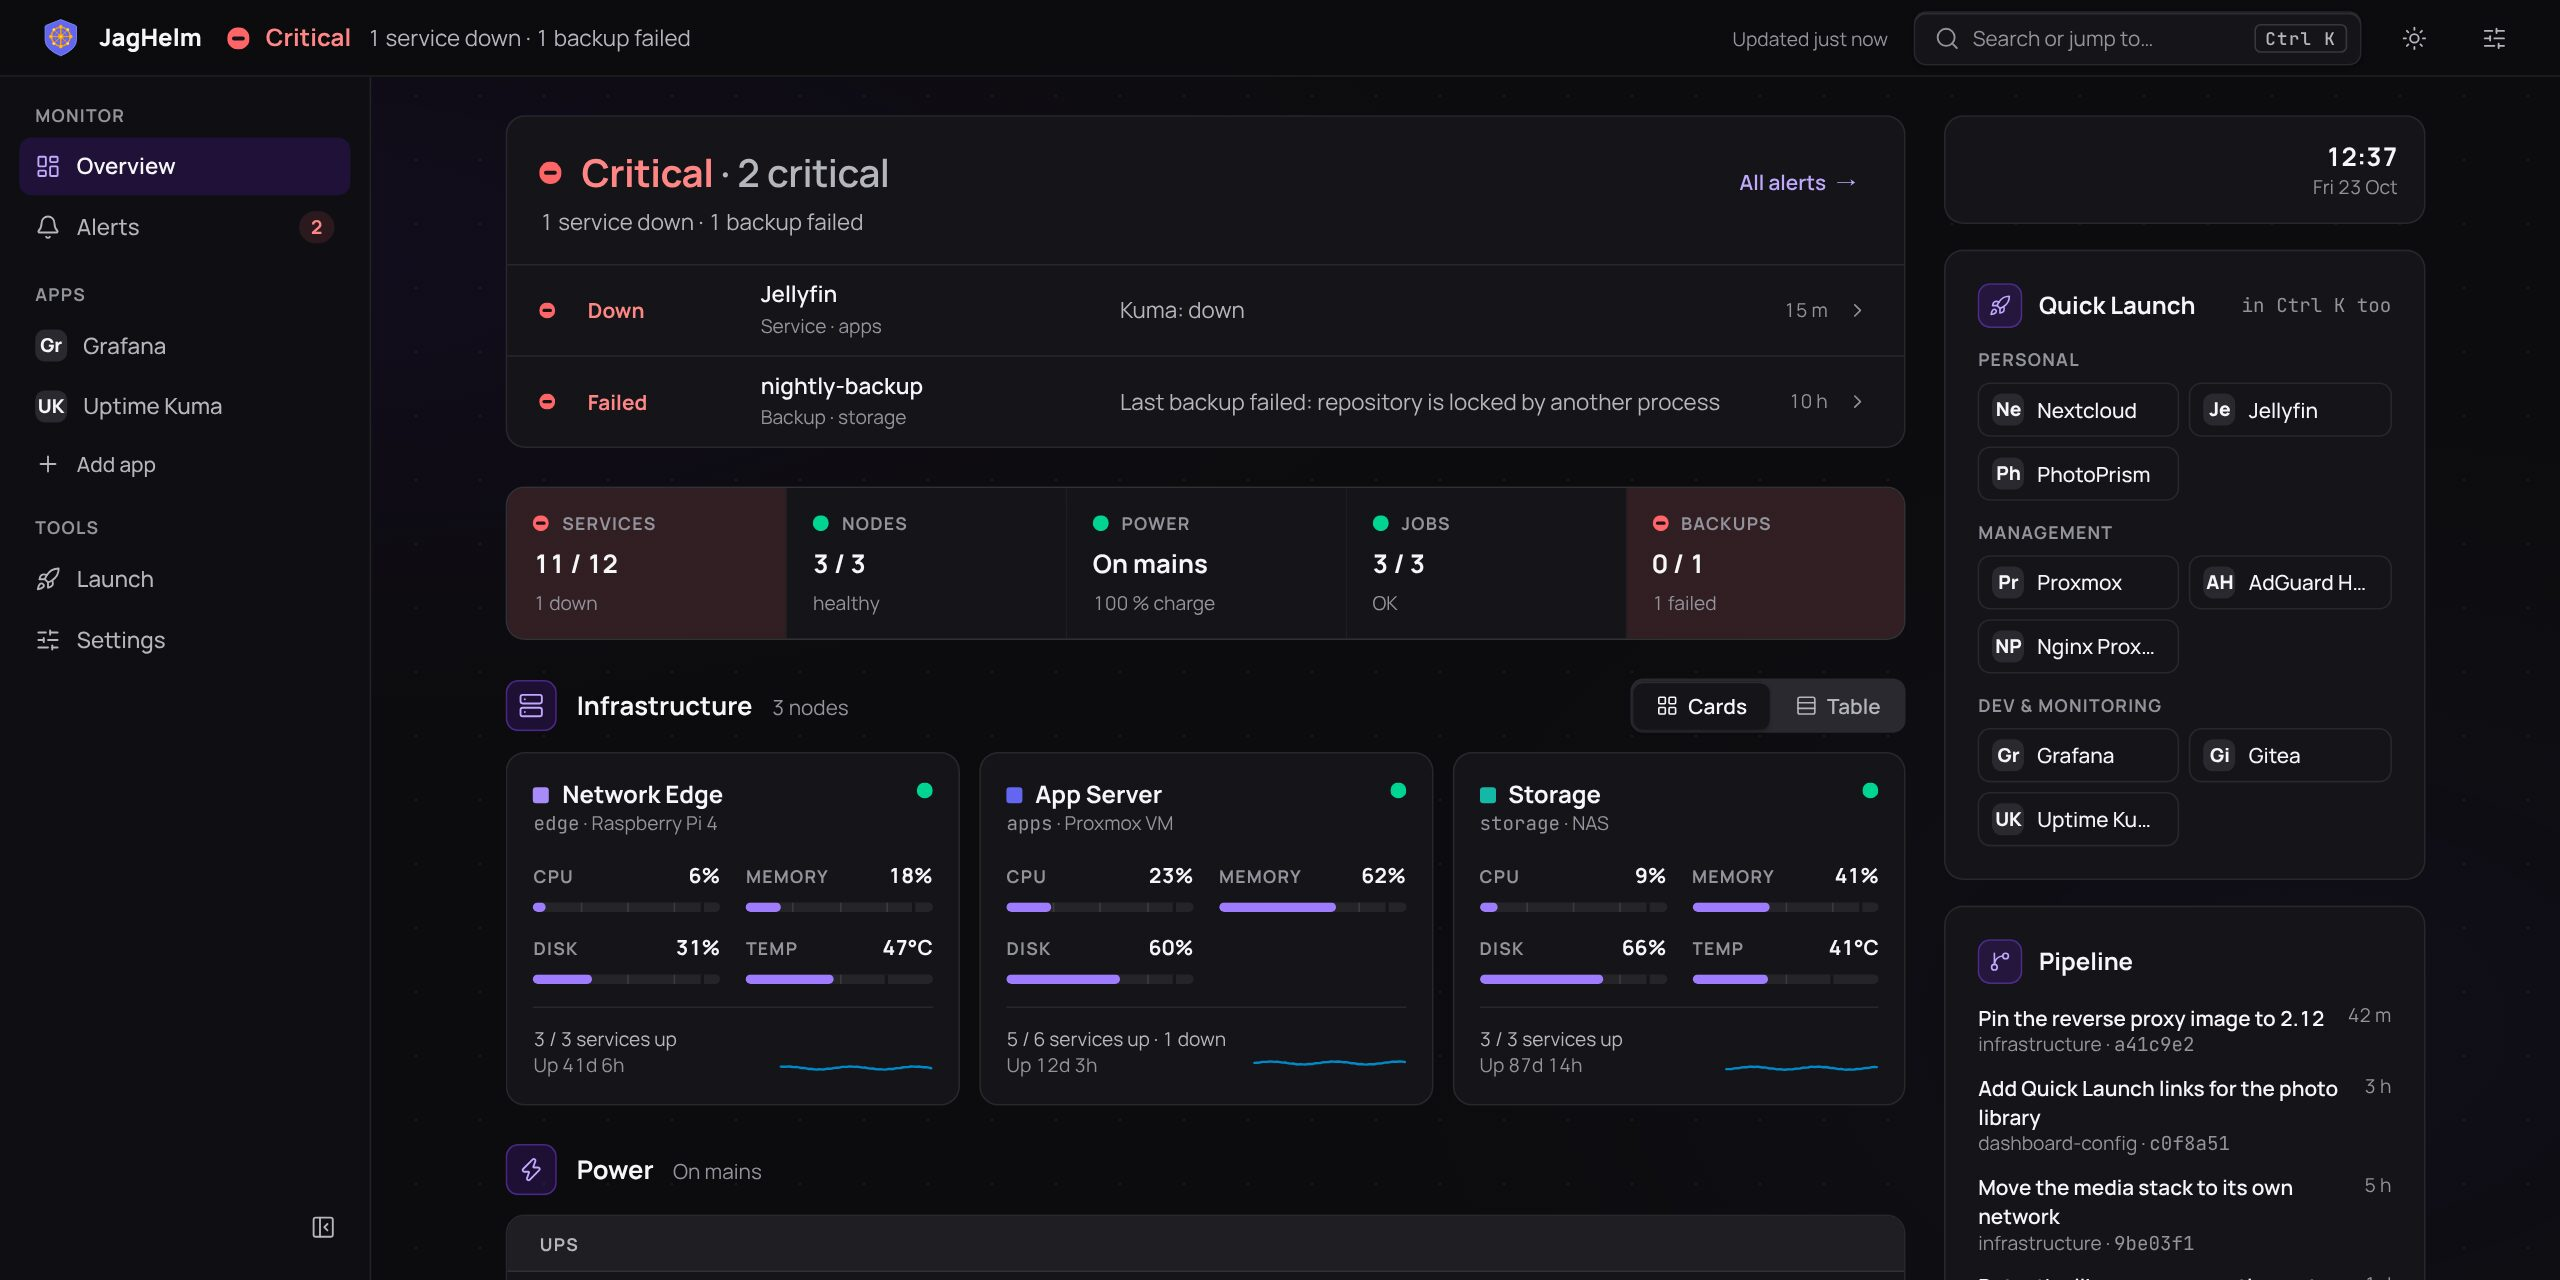
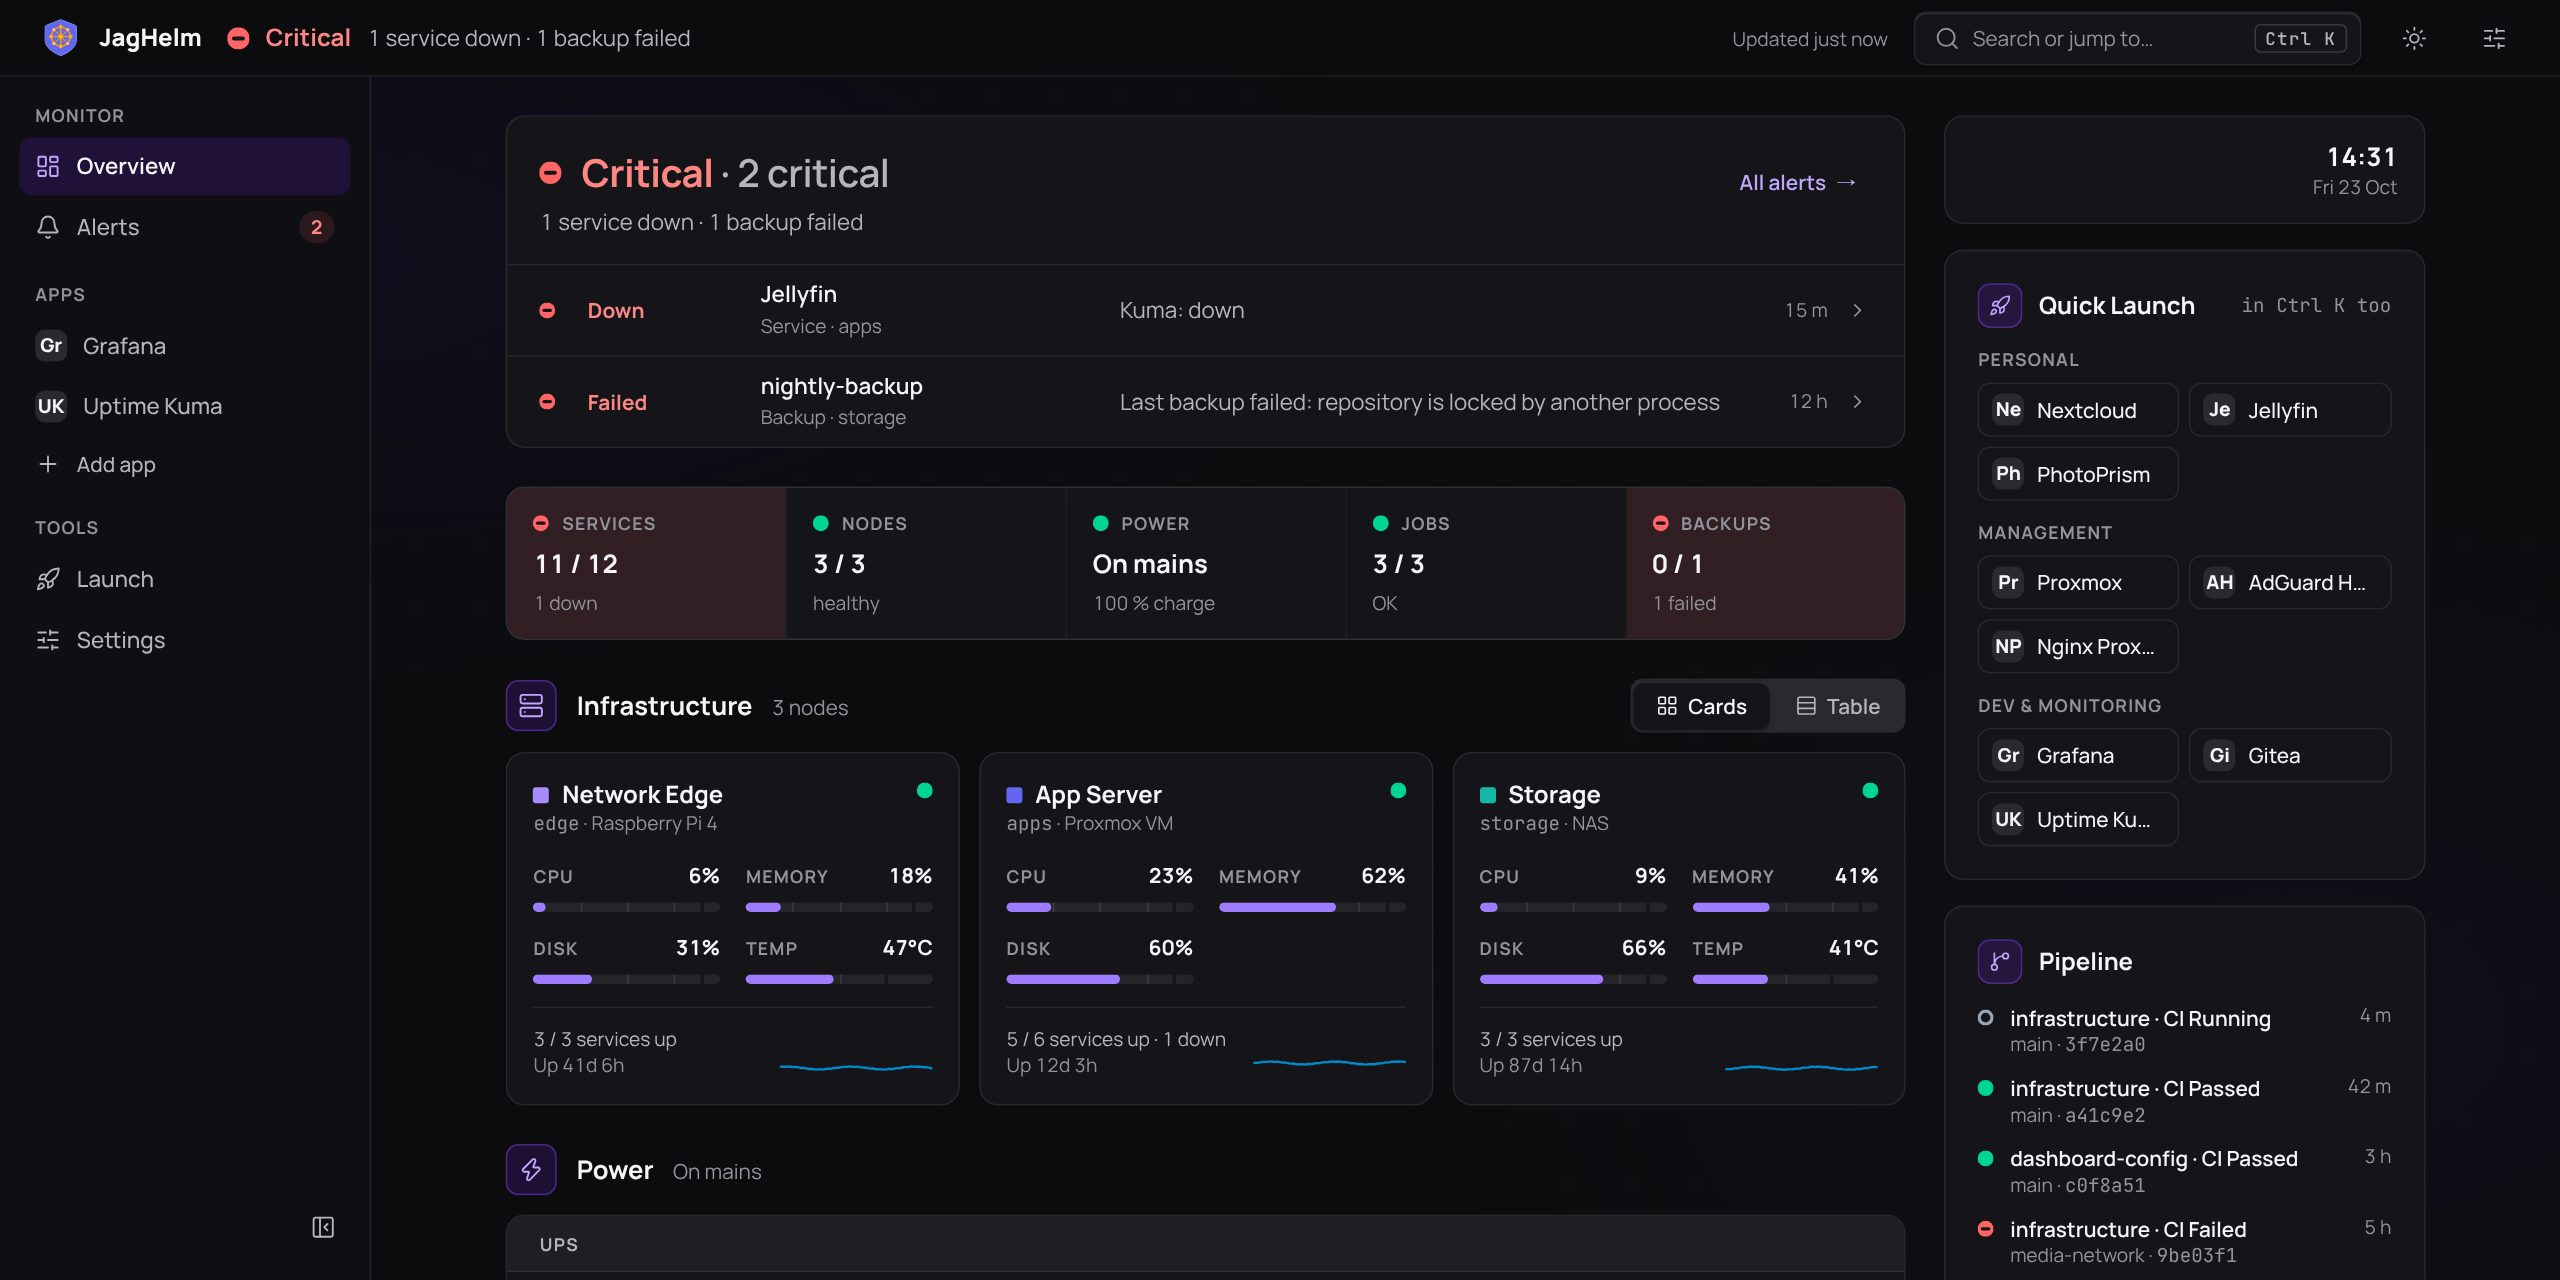
docs(readme): the Phase 1 Overview's detail, addresses and alert history (#308)
The screenshot is the demo's incident Overview again, at the same size and
weight, now with the Pipeline's CI results (#532). The feature tour adds the
detail panel and phone sheet, entity addresses, the phone screens below
768px, the Alerts page and GET /api/events, and the Default typography.

Changed region(s): [[0.75, 0.7812, 0.9375, 1.0]]

diff --git a/README.md b/README.md
@@ -16,7 +16,7 @@
   <img src="https://img.shields.io/badge/ghcr.io-jagbhandal%2Fjaghelm-blue?style=flat-square&logo=github" alt="GHCR">
 </p>
 <p align="center">
-  <img src="docs/images/dashboard.jpg" alt="JagHelm's Overview on the demo: a service down and a failed backup first, then the subsystem strip, the nodes and the UPS, beside Quick Launch and Pipeline">
+  <img src="docs/images/dashboard.jpg" alt="JagHelm's Overview on the demo: a service down and a failed backup first, then the subsystem strip, the nodes and the UPS, beside Quick Launch and Pipeline with its CI results">
 </p>
 
 ## Try it in 10 seconds — no Prometheus needed
@@ -306,11 +306,13 @@ Add your existing monitoring tools as embedded apps — Grafana, Uptime Kuma, Po
  
 ### The Overview
  
-The Overview leads with what is wrong: the issues, worst first, or one quiet line when all is well, and a strip of subsystems (Services, Nodes, Power, Jobs, Backups, Integrations) whose tiles filter the page. Under them, the nodes as cards or a table, the UPS, every scheduled job and backup, and every service in one list, by node or by custom group; each opens its detail. From 1440px wide, Quick Launch, Pipeline and the Checklist sit beside them; narrower, they are on the Launch page. The sections grow with their content and never clip it, from a phone to a 4K screen; Settings → Appearance can hide any of them. The old drag-and-resize grid went with the redesign, and arranging comes back as an Edit layout mode. A fresh install with no node yet says so where the nodes will be, and how to add one.
+The Overview leads with what is wrong: the issues, worst first, or one quiet line when all is well, and a strip of subsystems (Services, Nodes, Power, Jobs, Backups, Integrations) whose tiles filter the page. Under them, the nodes as cards or a table, the UPS, every scheduled job and backup, and every service in one list, by node or by custom group. Each row, card and issue opens its detail in a panel at the side (a full-screen sheet on a phone): its state, why and since when, its readings, and a link to where it is set up in Settings. Everything JagHelm watches has its own address (`/?entity=services/apps:jellyfin`), so a link, a bookmark or a reload opens the same detail. From 1440px wide, Quick Launch, Pipeline and the Checklist sit beside them; narrower, they are on the Launch page. The sections grow with their content and never clip it, from a phone to a 4K screen; Settings → Appearance can hide any of them. The old drag-and-resize grid went with the redesign, and arranging comes back as an Edit layout mode. A fresh install with no node yet says so where the nodes will be, and how to add one. Below 768px the browser shows the Android app's screens instead, with tabs for Overview, Services, Infrastructure, Alerts and More.
+
+The Alerts page lists what needs attention now, worst first. JagHelm also keeps a history of its alerts for 30 days (up to 1000), with phone notifications set up or not, each with when, what, why and whether it went to your phones; `GET /api/events` serves it, newest first, a page at a time, and the Alerts pages will show it in a later release.
  
 ### Themes and typography
  
-Dark and light themes, or System to follow your device as it switches, with one violet accent; the header's sun and moon button flips between dark and light. Five font family presets for Settings; one text-size setting for the whole app is coming with the new Settings.
+Dark and light themes, or System to follow your device as it switches, with one violet accent; the header's sun and moon button flips between dark and light. Five font family presets for Settings, Manrope and JetBrains Mono by default; one text-size setting for the whole app is coming with the new Settings.
  
 ### PWA installable
  
